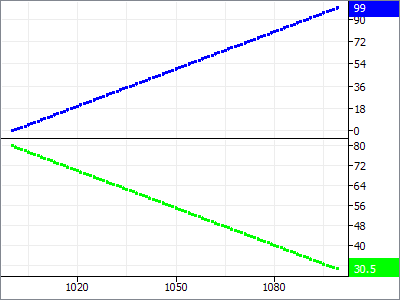
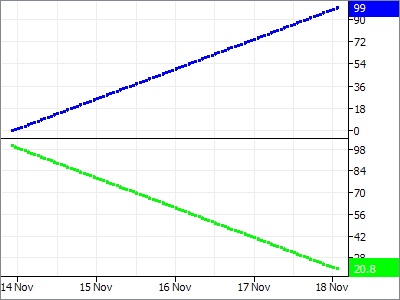
Add vcpkg.json manifest and update documentation (#1)
* Add vcpkg.json manifest and update documentation

- Add vcpkg.json with qtbase and gtest dependencies
- Update README prerequisites to reference vcpkg.json instead of listing packages
- Add Ninja to prerequisites list
- Update CLAUDE.md workflow to require GitHub pull requests
- Add ninja build directories to .gitignore

* Remove ChromiumBase dependency, use Qt alternatives

- Replace base::AutoReset with QScopedValueRollback
- Replace base::Time/TimeDelta with QDateTime/std::chrono
- Remove unused base/strings includes
- Add C++20 requirement to CMakeLists.txt
- Update CI workflow to remove ChromiumBase checkout
- Update graph_time_helper.h with Qt-based ValueFromTime/ValueFromDuration
- Update app to use std::chrono for time calculations
- Update MultiplePanes render test to use time-based data with trends

* Use Ninja Multi-Config presets and update CI

- Replace Visual Studio presets with Ninja Multi-Config presets
- Add ninja-x86 and ninja-x64 configure presets
- Add debug/release build and test presets
- Update CI to use presets for Windows builds
- Set QT_QPA_PLATFORM=offscreen for Linux tests
- Use ilammy/msvc-dev-cmd for MSVC environment setup

* Add vcpkg builtin-baseline and update CLAUDE.md

- Add builtin-baseline to vcpkg.json for manifest mode
- Add workflow note to build and test locally before PRs

* Upload test images as artifacts on CI failure

When rendering tests fail, upload all PNG files from testdata/
[…]

diff --git a/graph_rendering_unittest.cpp b/graph_rendering_unittest.cpp
@@ -4,17 +4,55 @@
 #include "graph_qt/graph_line.h"
 #include "graph_qt/graph_pane.h"
 #include "graph_qt/graph_plot.h"
+#include "graph_qt/graph_time_helper.h"
 #include "test/test_data_source.h"
 
 #include <gtest/gtest.h>
 
 #include <QCoreApplication>
+#include <QDateTime>
 #include <QDir>
 #include <QImage>
 #include <QPainter>
+#include <chrono>
 
 namespace views {
 namespace {
+
+// Test data source with time-based x values and linear y values.
+class TimeTestDataSource : public GraphDataSource {
+ public:
+  // Creates a data source with time-based data: y = slope * index + offset.
+  TimeTestDataSource(QDateTime base_time,
+                     std::chrono::seconds time_step,
+                     int count,
+                     double slope,
+                     double y_offset = 0.0) {
+    double time_value = ValueFromTime(base_time);
+    double step_seconds = ValueFromDuration(time_step);
+    for (int i = 0; i < count; ++i) {
+      points_.emplace_back(time_value + i * step_seconds, slope * i + y_offset);
+    }
+  }
+
+  double GetCurrentValue() const override { return points_.back().y; }
+
+  std::unique_ptr<PointEnumerator> EnumPoints(double from,
+                                              double to,
+                                              bool include_left_bound,
+                                              bool include_right_bound) override {
+    return std::make_unique<TestPointEnumerator>(points_);
+  }
+
+  GraphRange GetHorizontalRange() const override {
+    GraphRange range{points_.front().x, points_.back().x};
+    range.set_time();
+    return range;
+  }
+
+ private:
+  std::vector<GraphPoint> points_;
+};
 
 // Returns the path to the testdata directory.
 QString GetTestDataPath() {
@@ -157,20 +195,31 @@ TEST_F(GraphRenderingTest, MultipleLines) {
 }
 
 TEST_F(GraphRenderingTest, MultiplePanes) {
-  // Use negative slope for second pane to make it visually distinct.
-  TestDataSource data_source2(-0.5, 80.0);  // slope=-0.5, y_offset=80
+  // Use time-based data sources with increasing and decreasing trends.
+  // Fixed base time for reproducible rendering.
+  const auto base_time = QDateTime::fromMSecsSinceEpoch(1700000000000LL);  // 2023-11-14
+  const int count = 100;
+
+  // Pane 1: increasing trend (slope = 1.0)
+  TimeTestDataSource data_source1{base_time, std::chrono::hours(1), count,
+                                  1.0, 0.0};
+
+  // Pane 2: decreasing trend (slope = -0.8, offset to keep values positive)
+  TimeTestDataSource data_source2{base_time, std::chrono::hours(1), count,
+                                  -0.8, 100.0};
+
   Graph graph;
   graph.setFixedSize(400, 300);
 
   auto* pane1 = graph.AddPane();
-  auto* line1 = pane1->plot().AddLine(data_source_);  // slope=1.0 (default)
+  auto* line1 = pane1->plot().AddLine(data_source1);
   line1->SetColor(Qt::blue);
 
   auto* pane2 = graph.AddPane();
-  auto* line2 = pane2->plot().AddLine(data_source2); 
+  auto* line2 = pane2->plot().AddLine(data_source2);
   line2->SetColor(Qt::green);
 
-  auto data_range = data_source_.GetHorizontalRange();
+  auto data_range = data_source1.GetHorizontalRange();
   graph.horizontal_axis().SetTimeFit(false);
   graph.horizontal_axis().SetRange(data_range);
 
@@ -192,7 +241,7 @@ TEST_F(GraphRenderingTest, MultiplePanes) {
            << " pixels. Actual saved to: actual_" << golden_name.toStdString();
   }
 
-  // Clean up before data_source2 is destroyed.
+  // Clean up before data sources are destroyed.
   graph.DeleteAllPanes();
 }
 

diff --git a/horizontal_scroll_bar_controller.cpp b/horizontal_scroll_bar_controller.cpp
@@ -1,9 +1,9 @@
 #include "graph_qt/horizontal_scroll_bar_controller.h"
 
-#include "base/auto_reset.h"
 #include "graph_qt/graph_axis.h"
 
 #include <QScrollBar>
+#include <QScopedValueRollback>
 
 namespace views {
 
@@ -47,7 +47,7 @@ void HorizontalScrollBarController::SetScrollRange(const GraphRange& range) {
 
   scroll_range_ = range;
 
-  base::AutoReset updating{&updating_, true};
+  QScopedValueRollback<bool> updating(updating_, true);
 
   auto view_range = axis_.range();
   if (view_range.empty() || scroll_range_.empty()) {
@@ -71,7 +71,7 @@ void HorizontalScrollBarController::OnScroll(int pos) {
     return;
   }
 
-  base::AutoReset updating{&updating_, true};
+  QScopedValueRollback<bool> updating(updating_, true);
   axis_.SetRange(view_range);
 }
 
@@ -92,7 +92,7 @@ void HorizontalScrollBarController::OnViewRangeChanged() {
     return;
   }
 
-  base::AutoReset updating{&updating_, true};
+  QScopedValueRollback<bool> updating(updating_, true);
 
   int pos = CalculateScrollPos();
   scroll_bar_.setValue(pos);

diff --git a/graph_axis.cpp b/graph_axis.cpp
@@ -1,7 +1,5 @@
 #include "graph_qt/graph_axis.h"
 
-#include "base/auto_reset.h"
-#include "base/time/time.h"
 #include "graph_qt/graph.h"
 #include "graph_qt/graph_line.h"
 #include "graph_qt/graph_pane.h"
@@ -12,6 +10,7 @@
 #include <QDateTime>
 #include <QMouseEvent>
 #include <QPainter>
+#include <QScopedValueRollback>
 #include <iterator>
 
 namespace views {
@@ -80,7 +79,7 @@ QString GetTimeAxisLabel(double val, double tick_step) {
   static const double kDayStep = 24 * kHourStep;
 
   auto date_time =
-      QDateTime::fromMSecsSinceEpoch(base::Time::FromDoubleT(val).ToJavaTime());
+      QDateTime::fromMSecsSinceEpoch(static_cast<qint64>(val * 1000));
 
   if (tick_step >= kDayStep) {
     return date_time.toString("d MMM");
@@ -523,7 +522,7 @@ void GraphAxis::Fit() {
     range = scroll_range_.high_subrange(range.delta());
   }
 
-  base::AutoReset updating{&time_fit_updating_, true};
+  QScopedValueRollback<bool> updating(time_fit_updating_, true);
   SetRange(range);
 }
 

diff --git a/app/graph_app_main.cpp b/app/graph_app_main.cpp
@@ -12,6 +12,7 @@
 #include <QScrollBar>
 #include <QTimer>
 #include <QToolBar>
+#include <chrono>
 #include <vector>
 
 using namespace views;
@@ -49,16 +50,17 @@ class UpdatingTimeDataSource : public VirtualDataSource {
   }
 
  private:
+  static constexpr auto kStep = std::chrono::seconds(1);
+  static constexpr auto kRange = std::chrono::hours(365 * 24);
+
   VirtualDataset dataset_{
-      .horizontal_min_ = ValueFromTime(base::Time::Now() - kRange),
+      .horizontal_min_ = ValueFromTime(QDateTime::currentDateTime().addSecs(
+          -std::chrono::duration_cast<std::chrono::seconds>(kRange).count())),
       .step_ = ValueFromDuration(kStep),
       .count_ = static_cast<size_t>(kRange / kStep),
       .ramp_count_ = 100};
 
   QTimer timer_;
-
-  inline static const base::TimeDelta kStep = base::TimeDelta::FromSeconds(1);
-  inline static const base::TimeDelta kRange = base::TimeDelta::FromDays(365);
 };
 
 int main(int argc, char** argv) {

diff --git a/graph_time_helper.h b/graph_time_helper.h
@@ -1,8 +1,8 @@
 #pragma once
 
-#include "base/time/time.h"
 #include "graph_qt/model/graph_types.h"
 
+#include <QDateTime>
 #include <chrono>
 
 namespace views {
@@ -19,12 +19,15 @@ class GraphTimeHelper {
   GraphTimeHelper();
 };
 
-inline GraphValue ValueFromTime(base::Time time) {
-  return time.ToDoubleT();
+// Converts QDateTime to graph value (Unix timestamp in seconds).
+inline GraphValue ValueFromTime(const QDateTime& time) {
+  return time.toMSecsSinceEpoch() / 1000.0;
 }
 
-inline GraphValue ValueFromDuration(base::TimeDelta duration) {
-  return duration.InSecondsF();
+// Converts std::chrono::duration to graph value (seconds).
+template <typename Rep, typename Period>
+inline GraphValue ValueFromDuration(std::chrono::duration<Rep, Period> duration) {
+  return std::chrono::duration<double>(duration).count();
 }
 
 }  // namespace views

diff --git a/graph.cpp b/graph.cpp
@@ -1,8 +1,5 @@
 #include "graph_qt/graph.h"
 
-#include "base/strings/stringprintf.h"
-#include "base/strings/sys_string_conversions.h"
-#include "base/time/time.h"
 #include "graph_qt/graph_axis.h"
 #include "graph_qt/graph_line.h"
 #include "graph_qt/graph_pane.h"

diff --git a/graph_plot.cpp b/graph_plot.cpp
@@ -1,7 +1,5 @@
 #include "graph_qt/graph_plot.h"
 
-#include "base/strings/stringprintf.h"
-#include "base/strings/sys_string_conversions.h"
 #include "graph_qt/graph.h"
 #include "graph_qt/graph_axis.h"
 #include "graph_qt/graph_line.h"

diff --git a/README.md b/README.md
@@ -12,17 +12,14 @@ Qt5-based graphing widget library for displaying time-series data with interacti
 
 - CMake 3.26+
 - Visual Studio 2022 or later
+- Ninja (for Ninja presets)
 - Qt 5.15.x (msvc2019 for x86, msvc2019_64 for x64)
-- vcpkg with packages:
-  - x86: `gtest:x86-windows`, `icu:x86-windows`
-  - x64: `gtest:x64-windows`, `icu:x64-windows`
-- [ChromiumBase](https://github.com/alexsmn/chromebase) library
+- vcpkg (dependencies listed in `vcpkg.json`)
 
 ## Build
 
 1. Copy `CMakeUserPresets.json.example` to `CMakeUserPresets.json` and update the paths for your system:
    - `CMAKE_TOOLCHAIN_FILE` - path to vcpkg toolchain
-   - `CMAKE_MODULE_PATH` - path to ChromiumBase
    - `CMAKE_PREFIX_PATH` - path to Qt installation
    - `CMAKE_MAKE_PROGRAM` - path to Ninja (for Ninja presets)
 

diff --git a/CLAUDE.md b/CLAUDE.md
@@ -6,6 +6,10 @@ This file provides guidance to Claude Code (claude.ai/code) when working with co
 
 Do not commit changes automatically. Wait for explicit user request before creating commits.
 
+Do not commit directly to main. Create GitHub pull requests instead.
+
+Before creating or updating a PR, build and test locally.
+
 ## Build Commands
 
 ```batch
